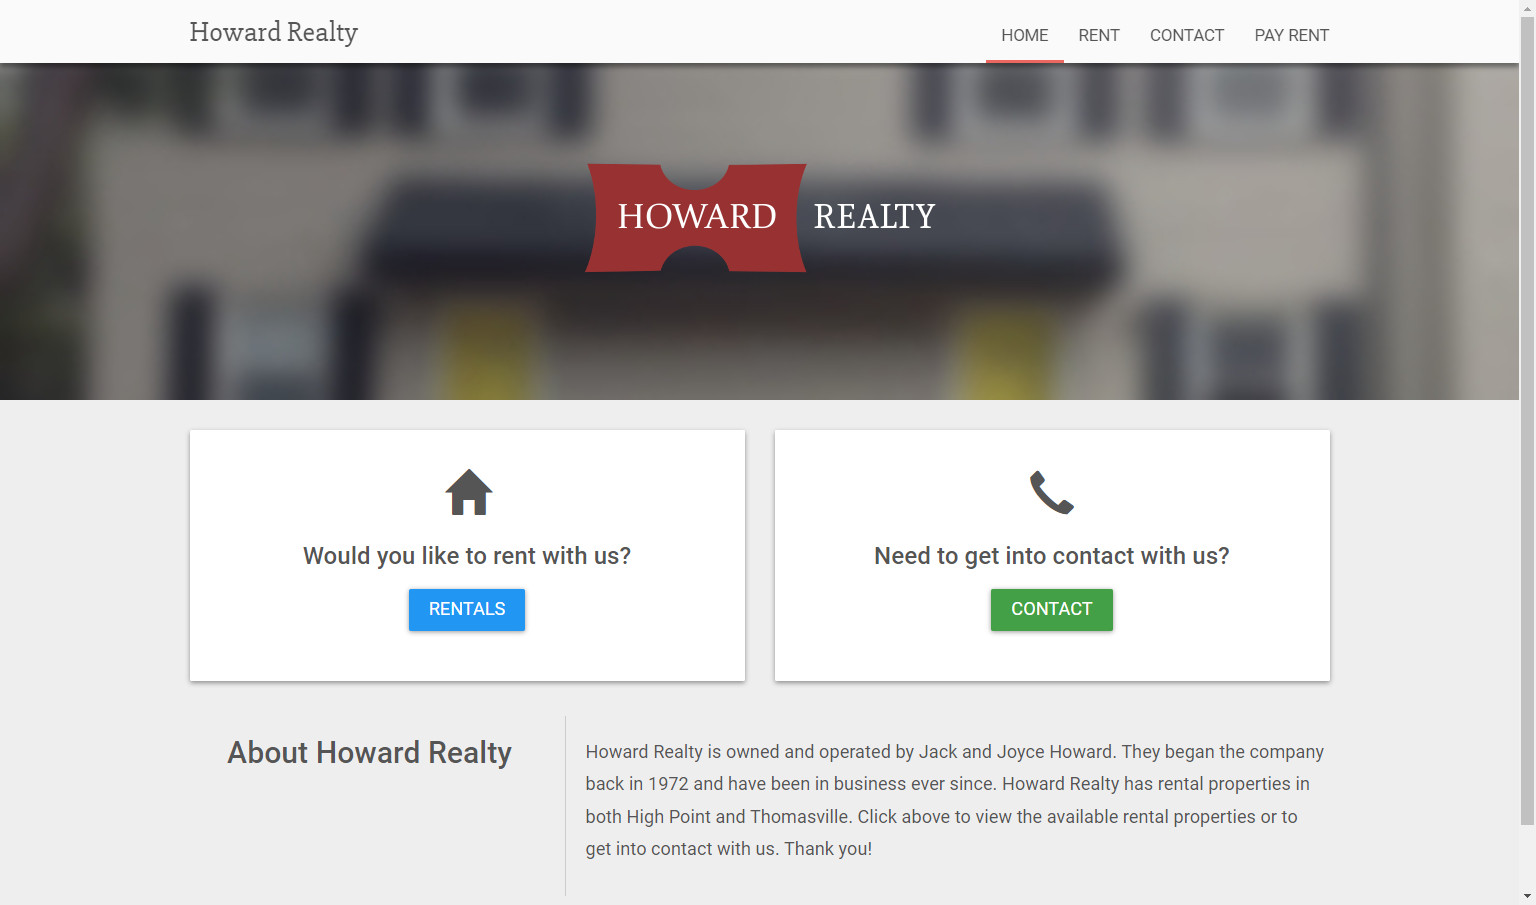
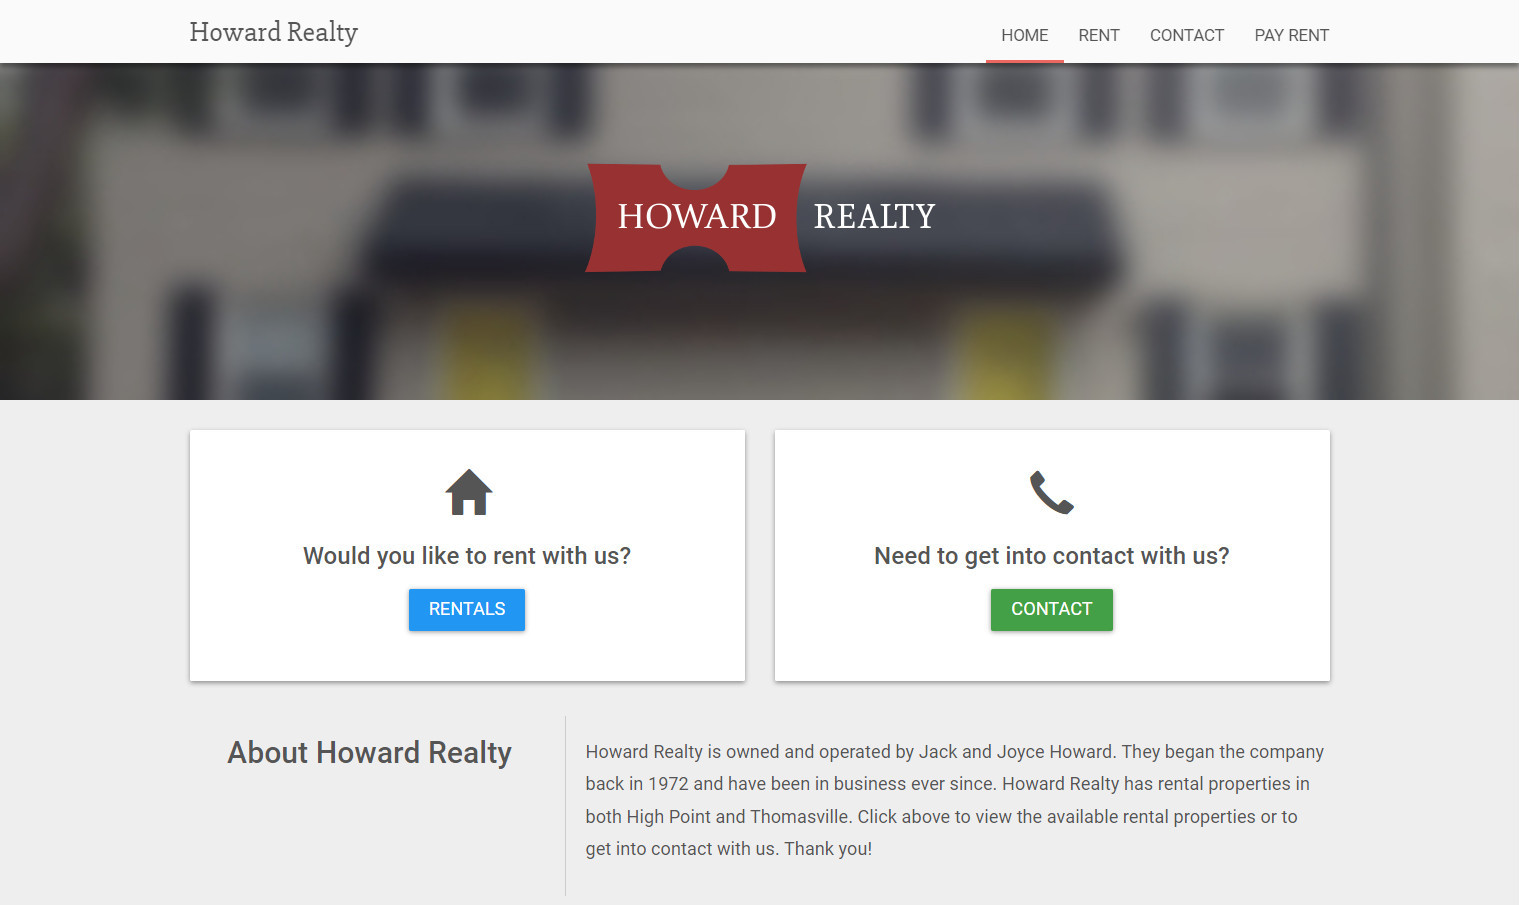
minor updates

diff --git a/styles.css b/styles.css
@@ -1,3 +1,5 @@
+@import url('https://fonts.googleapis.com/css2?family=Geologica:wght@400;700&display=swap');
+
 :root {
   --color-light-grey: rgba(220,220,220,.5);
   --color-dark-grey: rgba(20,20,20,1);
@@ -9,7 +11,7 @@
   padding: 0;
   margin: 0;
   box-sizing: border-box;
-  font-family: sans-serif;
+  font-family: 'Geologica', sans-serif;
 }
 
 a {
@@ -132,11 +134,13 @@ nav .nav-menu-desktop li:last-child a:hover {
 }
 
 .hero ul li:first-child a {
-  background-color: yellow;
+  background-color: green;
+  color: white;
 }
 
 .hero ul li:first-child a:hover {
   background-color: var(--color-light-grey);
+  color: black;
 }
 
 .hero ul li:last-child a {
@@ -204,6 +208,7 @@ nav .nav-menu-desktop li:last-child a:hover {
 .services-content {
   padding: var(--vertical-padding) 100px;
   width: 70%;
+  margin: 0 auto;
 }
 
 .services .services-desc {
@@ -381,8 +386,8 @@ nav .nav-menu-desktop li:last-child a:hover {
   background-color: var(--color-light-grey);
 }
 
-.contact .contact-email p a:hover {
-  text-decoration: underline;
+.contact .contact-email p:hover {
+  cursor: pointer;
 }
 
 .contact .contact-email-message {
@@ -411,8 +416,14 @@ nav .nav-menu-desktop li:last-child a:hover {
 
 .contact .contact-email-display-msg p {
   background-color: red;
-  padding: 17px 20px;
+  width: 150px;
+  height: 150px;
+  border-radius: 50%;
   color: white;
+  display: grid;
+  grid-template: 1fr / 1fr;
+  align-items: center;
+  justify-items: center;
 }
 
 /* footer */

diff --git a/index.html b/index.html
@@ -37,8 +37,8 @@
 
       <div class="hero">
         <div class="hero-content">
-          <h2>Hey! My name is Austin Erb and I'm a freelance web developer. I design
-            and build websites that add value to your business.</h2>
+          <h2>Hey! My name is <u>Austin Erb</u> and I'm a freelance web developer. I design
+            and build websites that add value to <em>your</em> business.</h2>
           <ul>
             <li><a href="#services">My Services</a></li>
             <li><a href="#work">My Work</a></li>
@@ -130,7 +130,7 @@
 
         <div class="contact-email-display-msg-container hidden">
           <div class="contact-email-display-msg">
-            <p>Copied!</p>
+            <p><span>Copied!</span></p>
           </div>
         </div>
       </div>
